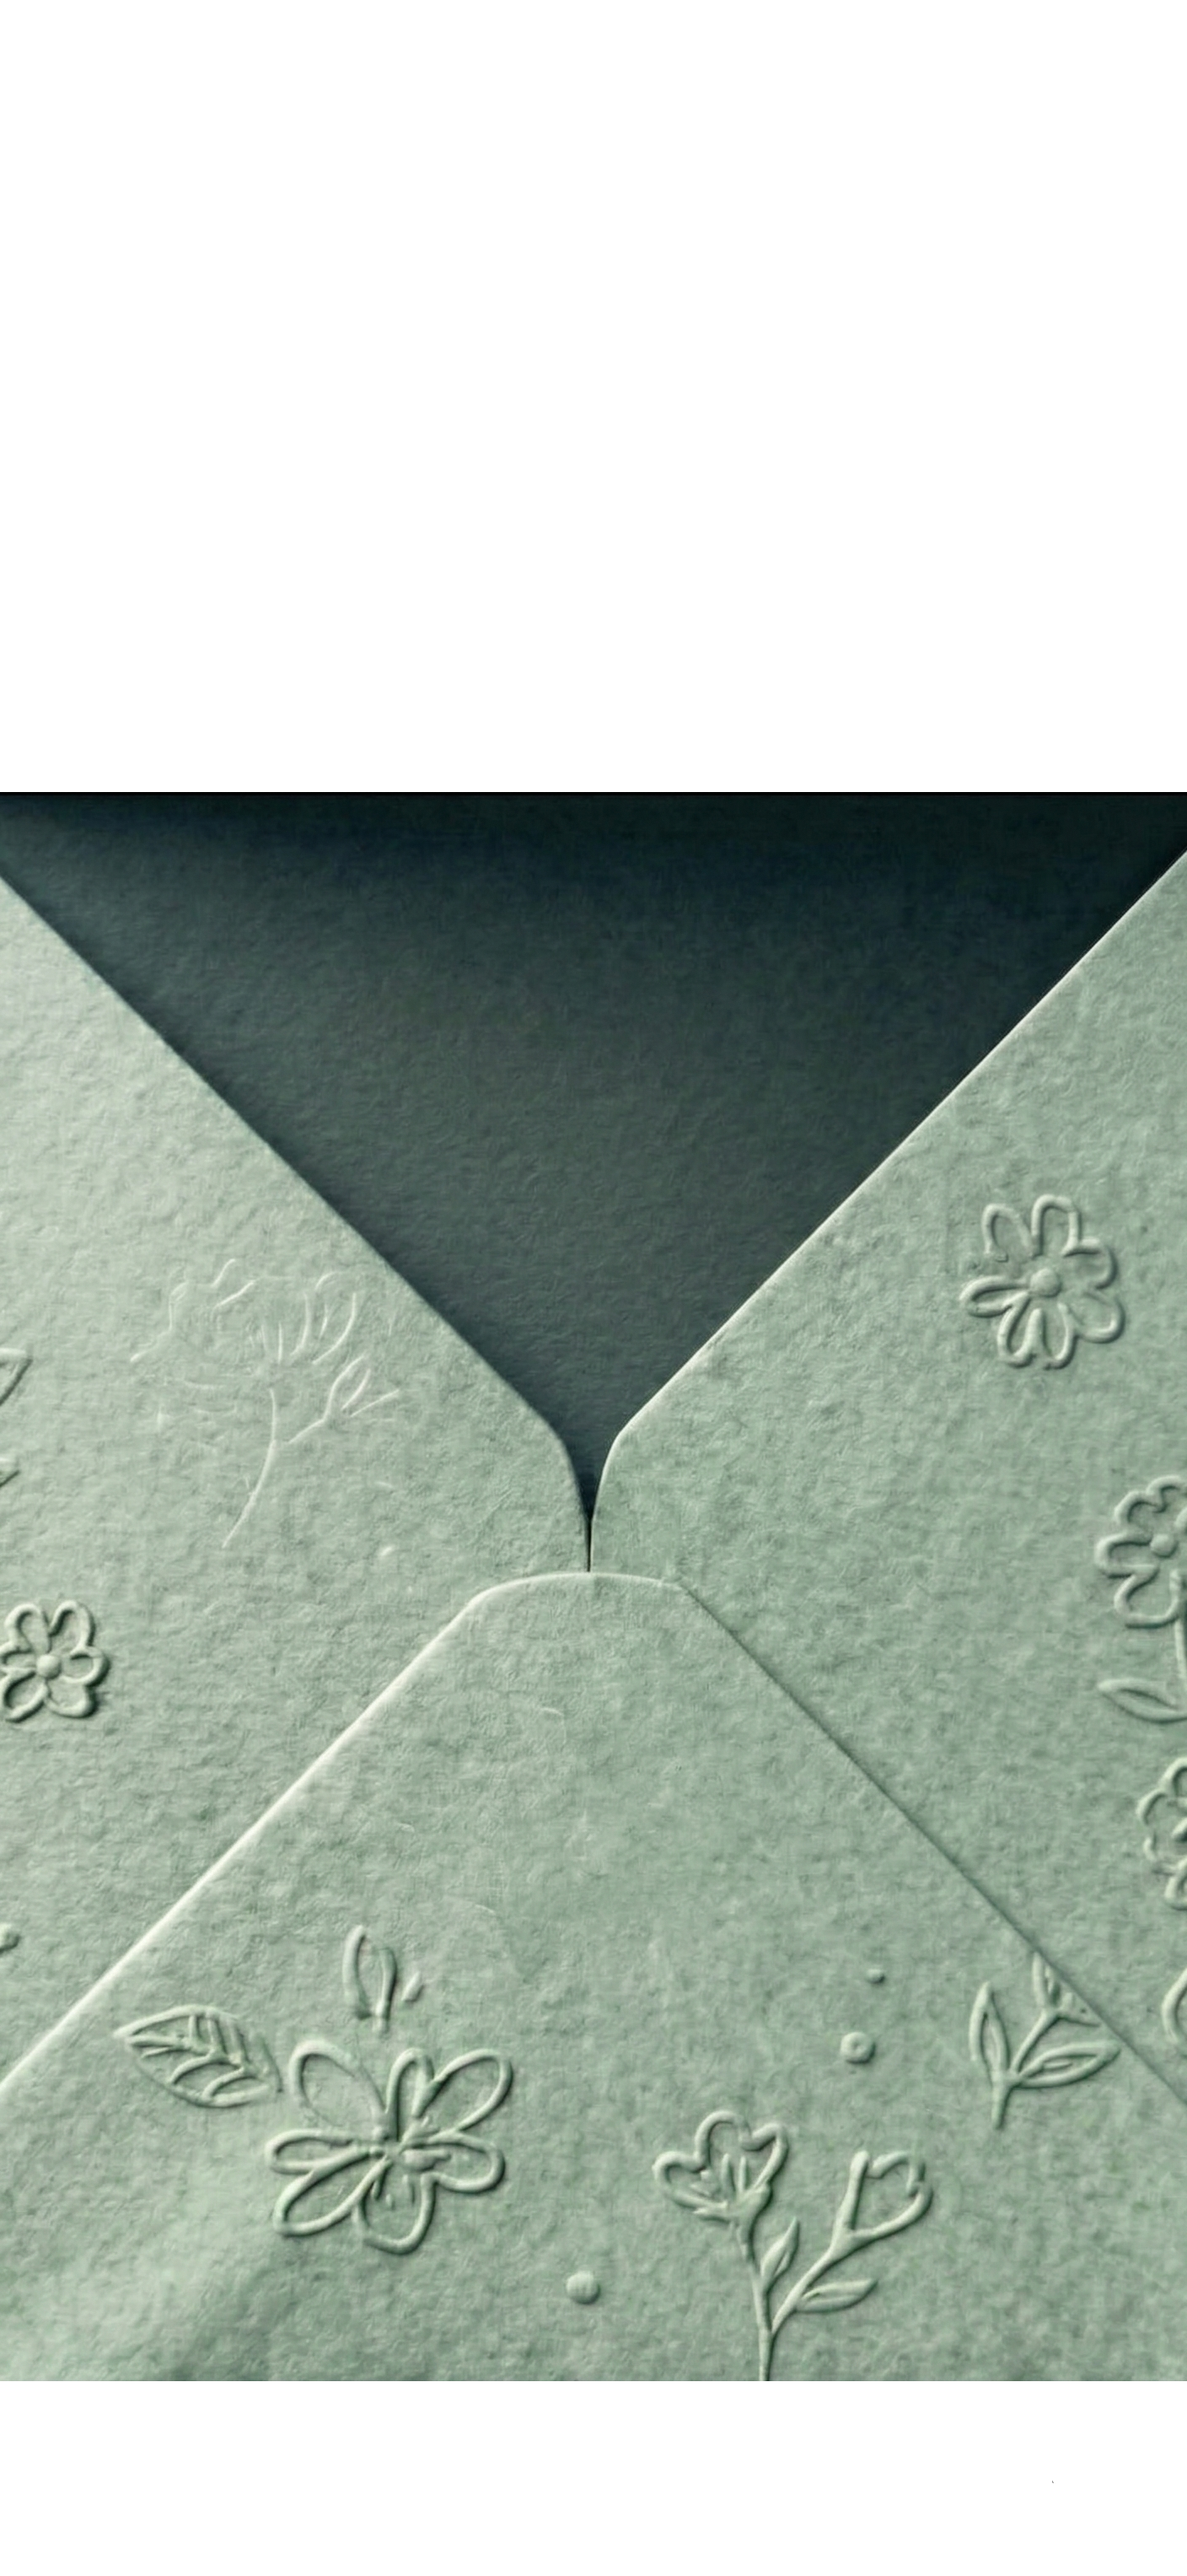
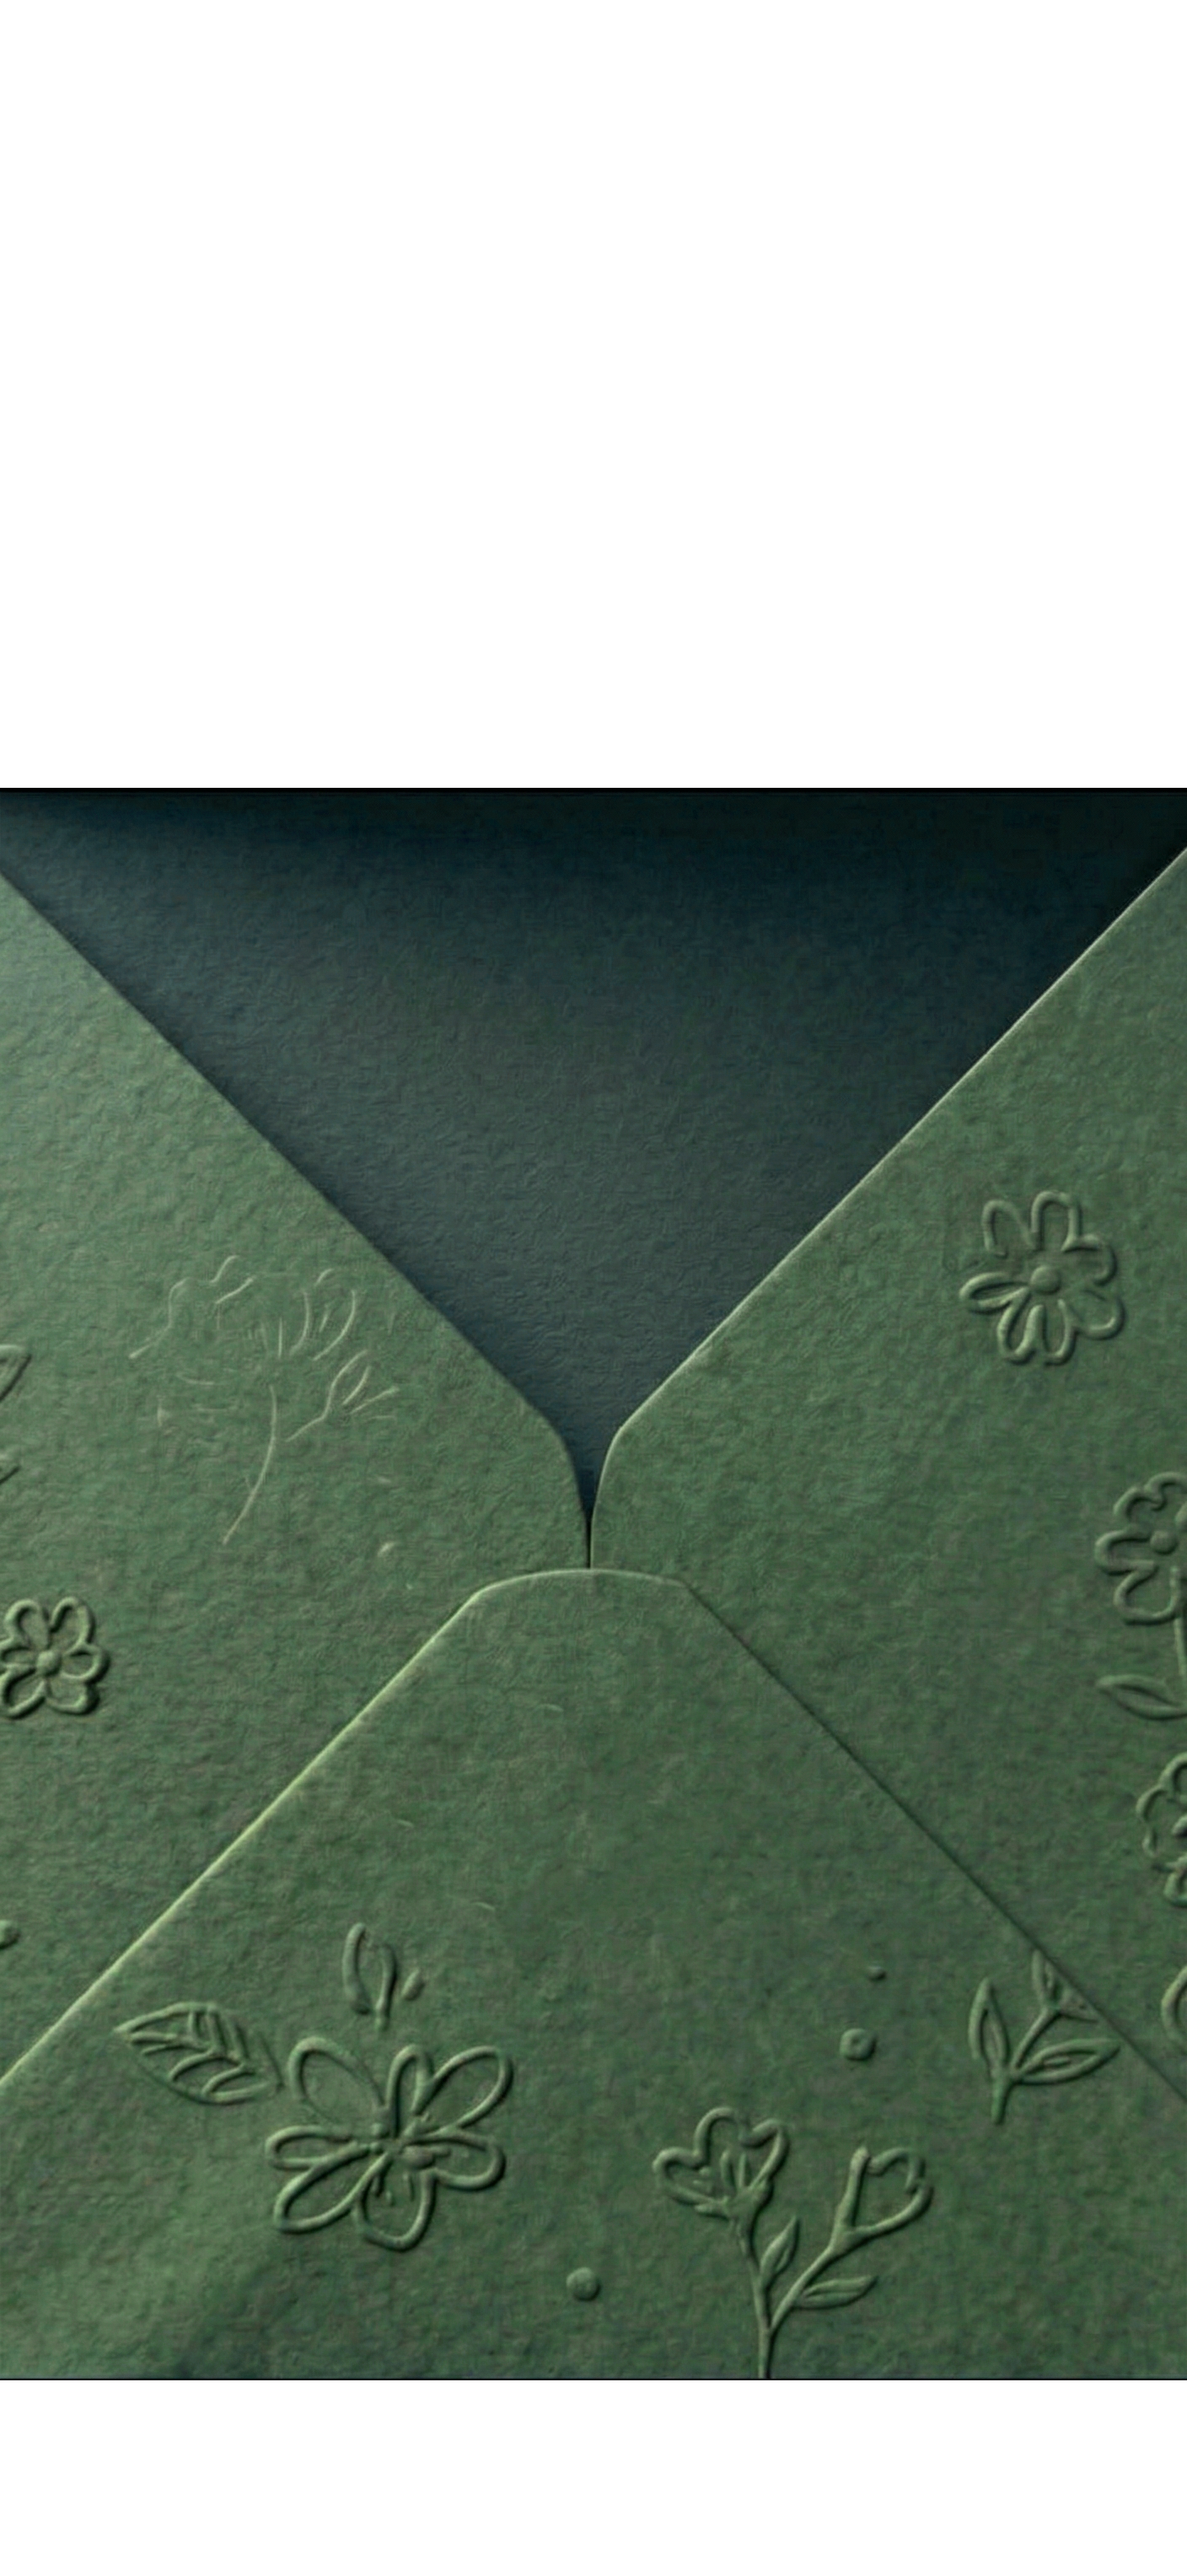
Add files via upload

diff --git a/index.html b/index.html
@@ -36,7 +36,7 @@
 
   /* 1. INTRO & OUTRO TEXT */
   .sub-text {
-    color: #e5c175;
+    color: #9daa86;
     font-size: 1.9cqh;
     margin: 0;
     font-family: 'Cormorant Garamond', serif;
@@ -48,7 +48,7 @@
 
   /* 2. MAIN NAMES */
   .main-names {
-    color: #e5c175;
+    color: #9daa86;
     font-size: 5.0cqh;
     margin: 0;
     gap: 0.4cqh;
@@ -69,7 +69,7 @@
 
   /* 3. THE AMPERSAND (&) */
   .amp {
-    color: #e5c175;
+    color: #9daa86;
     font-size: 1.4em;
     font-family: 'Great Vibes', cursive;
     text-transform: none;
@@ -81,7 +81,7 @@
 
   /* 4. DATE TEXT */
   .date-header {
-    color: #e5c175;
+    color: #9daa86;
     font-size: 2.0cqh;
     margin: 0;
     font-family: 'Marcellus SC', serif;
@@ -93,7 +93,7 @@
 
   /* 5. YEAR */
   .date-year {
-    color: #e5c175;
+    color: #9daa86;
     font-size: 4.5cqh;
     margin: 0;
     font-family: 'Marcellus SC', serif;
@@ -104,7 +104,7 @@
 
   /* 6. TIME */
   .date-time {
-    color: #e5c175;
+    color: #9daa86;
     font-size: 1.9cqh;
     margin: 0;
     font-family: 'Cormorant Garamond', serif;
@@ -116,7 +116,7 @@
 
   /* 7. VENUE LOCATION */
   .venue-location {
-    color: #e5c175;
+    color: #9daa86;
     font-size: 1.75cqh;
     margin: 0;
     font-family: 'Cormorant Garamond', serif;
@@ -317,7 +317,7 @@
   }
 
   @keyframes textGlow {
-    0%, 100% { text-shadow: 1px 1px 5px rgba(0,0,0,0.6), 0 0 2px rgba(229,193,117,0.0); color: #e5c175; }
+    0%, 100% { text-shadow: 1px 1px 5px rgba(0,0,0,0.6), 0 0 2px rgba(229,193,117,0.0); color: #9daa86; }
     50% { text-shadow: 1px 1px 5px rgba(0,0,0,0.6), 0 0 15px rgba(229,193,117,0.8), 0 0 25px rgba(229,193,117,0.5); color: #fff8eb; }
   }
 
@@ -337,7 +337,7 @@
     width: 25%; 
     max-width: 140px; 
     height: 1px; 
-    background: linear-gradient(to right, transparent, #e5c175, transparent); 
+    background: linear-gradient(to right, transparent, #9daa86, transparent); 
     flex-shrink: 0; 
     transform-origin: center;
     margin: 0;
@@ -397,7 +397,7 @@
     font-size: clamp(0.75rem, 1.8vw, 0.95rem);
     font-weight: 500;
     letter-spacing: .15em;
-    color: #e5c175;
+    color: #9daa86;
     text-transform: uppercase;
     cursor: pointer;
     opacity: 0;
@@ -496,9 +496,9 @@
     content: ''; position: absolute; inset: 9px;
     border: 1px solid rgba(180,148,90,0.18); border-radius: 1px; pointer-events: none;
   }
-  .modal-title { font-family:'Parisienne',serif; font-size: clamp(2rem,8vw,2.6rem); color:#e5c175; margin-bottom:6px; text-transform:uppercase; letter-spacing:0.05em; text-shadow: 1px 1px 2px rgba(0,0,0,0.1); }
+  .modal-title { font-family:'Parisienne',serif; font-size: clamp(2rem,8vw,2.6rem); color:#9daa86; margin-bottom:6px; text-transform:uppercase; letter-spacing:0.05em; text-shadow: 1px 1px 2px rgba(0,0,0,0.1); }
   .modal-sub   { font-family:'Cormorant Garamond',serif; font-size: clamp(0.9rem,2.5vw,1.1rem); letter-spacing:.15em; color:#cca550; text-transform:uppercase; margin-bottom:18px; font-weight:500; }
-  .modal-rule  { width:70px; height:1px; background:linear-gradient(to right,transparent,#e5c175,transparent); margin:0 auto 20px; }
+  .modal-rule  { width:70px; height:1px; background:linear-gradient(to right,transparent,#9daa86,transparent); margin:0 auto 20px; }
 
   .rsvp-form { display:flex; flex-direction:column; gap:12px; text-align:left; }
   .rsvp-form input, .rsvp-form select {
@@ -667,13 +667,12 @@
         
         <div class="rule"></div>
         
-        <div class="date-header">SATURDAY, 6TH of June</div>
+        <div class="date-header">06 - 06 - 2026</div>
         
-        <div class="date-year">2026</div>
+    
         
         <div class="date-time italic">at 7:00 PM</div>
         
-        <!-- New Location Added Here (fixed non-standard tag) -->
         <div class="venue-location">Le Méridien Cairo Airport <br> Lotus Ballroom</div>
         
         <div class="rule"></div>
@@ -713,7 +712,7 @@
   <div class="modal-box">
     <span class="modal-close" onclick="closeModal('rsvp')">✕ Close</span>
     <div class="modal-title">RSVP</div>
-    <div class="modal-sub">Kindly reply by May 1st, 2026</div>
+    <div class="modal-sub">Your presence Is Really Matter</div>
     <div class="modal-rule"></div>
     <div class="rsvp-form" id="rsvpForm">
       <input type="text" placeholder="Your Full Name" id="rsvpName" required>
@@ -757,9 +756,8 @@
   </div>
 </div>
 
-<audio id="bgMusic" loop preload="auto">
-  <source src="music1.mp3" type="audio/mpeg">
-</audio>
+<!-- REMOVED THE <SOURCE> TAG SO IT ONLY LOADS VIA JAVASCRIPT FETCH NOW -->
+<audio id="bgMusic" loop></audio>
 
 <div id="musicPlayer">
   <button id="musicBtn" onclick="toggleMusic()" title="Toggle Music" aria-label="Toggle Music">
@@ -979,8 +977,6 @@
     // ✨ PASTE YOUR GOOGLE APPS SCRIPT URL HERE ✨
     const scriptURL = 'GOOGLE APPS SCRIPT URL HERE'; 
 
-  
-
     const formData = new FormData();
     formData.append('name', name);
     formData.append('attend', attend);
@@ -1039,7 +1035,6 @@
   // ─── Asset Preloader ─────────────────────────────────────────────────────
   // Tracks: image1, image2, image3, image4, audio (5 assets = 20% each)
   // The loading screen stays visible until every single asset is ready.
-  // A hard 10-second timeout ensures it always clears even on slow networks.
 
   var loadingBar   = document.getElementById('loadingBar');
   var assetsTotal  = 5;   // 4 images + 1 audio
@@ -1069,18 +1064,61 @@
     img.src = src;
   });
 
-  // Audio ready
-  music.addEventListener('canplaythrough', assetReady, { once: true });
+  // 🌟 FORCE MUSIC PRELOAD VIA FETCH 🌟
+  // Mobile browsers strictly block standard <audio> preloading to save data.
+  // We fetch the entire file as a Blob first — once response.blob() resolves,
+  // the COMPLETE file is already in device memory, so we mark it ready immediately.
+  // This guarantees zero buffering delay when the user taps to play.
+  fetch('music1.mp3')
+    .then(function(response) {
+      if (!response.ok) throw new Error("Audio fetch failed");
+      return response.blob(); // ← entire MP3 is in memory once this resolves
+    })
+    .then(function(blob) {
+      var audioUrl = URL.createObjectURL(blob);
+      music.src = audioUrl;
+      music.load();
+      // The full file is already in RAM — no need to wait for canplaythrough.
+      // Mark ready right away so the loading screen can dismiss.
+      if (!music.dataset.loaded) {
+        music.dataset.loaded = 'true';
+        assetReady();
+      }
+    })
+    .catch(function(error) {
+      // fetch was blocked (some browsers/networks restrict it) — fall back to
+      // standard streaming and wait for enough data to play without interruption.
+      console.warn("Audio pre-fetch blocked or failed, falling back to streaming.", error);
+      music.src = 'music1.mp3';
+      music.preload = 'auto';
 
-  // Hard fallback: reveal after 10 s no matter what (slow network / blocked audio)
+      function markLoaded() {
+        if (!music.dataset.loaded) {
+          music.dataset.loaded = 'true';
+          assetReady();
+        }
+      }
+
+      music.addEventListener('canplaythrough', function onReady() {
+        music.removeEventListener('canplaythrough', onReady);
+        markLoaded();
+      });
+
+      // Streaming fallback timeout — 12 s is generous for most mobile connections
+      setTimeout(markLoaded, 12000);
+    });
+
+  // Hard safety net: if ANY asset is still pending after 35 s, reveal anyway
+  // so guests are never stuck on the loading screen indefinitely.
   setTimeout(function() {
     if (assetsLoaded < assetsTotal) {
       assetsLoaded = assetsTotal;
       loadingBar.style.width = '100%';
       revealInvitation();
     }
-  }, 10000);
+  }, 35000);
 
+  // Audio will automatically play as soon as the user taps anywhere to open the envelope
   document.addEventListener('click', function autoPlay() {
     if (!musicPlaying) {
       music.play().then(() => {
